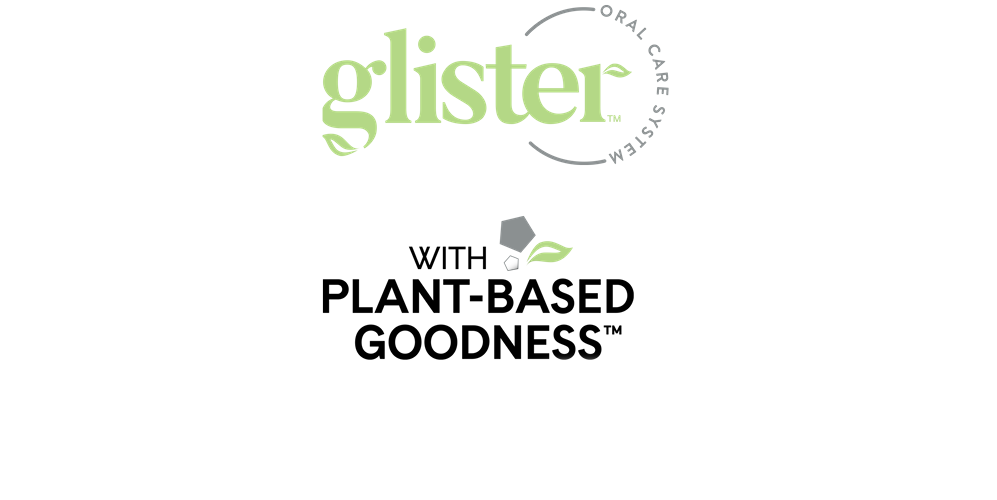
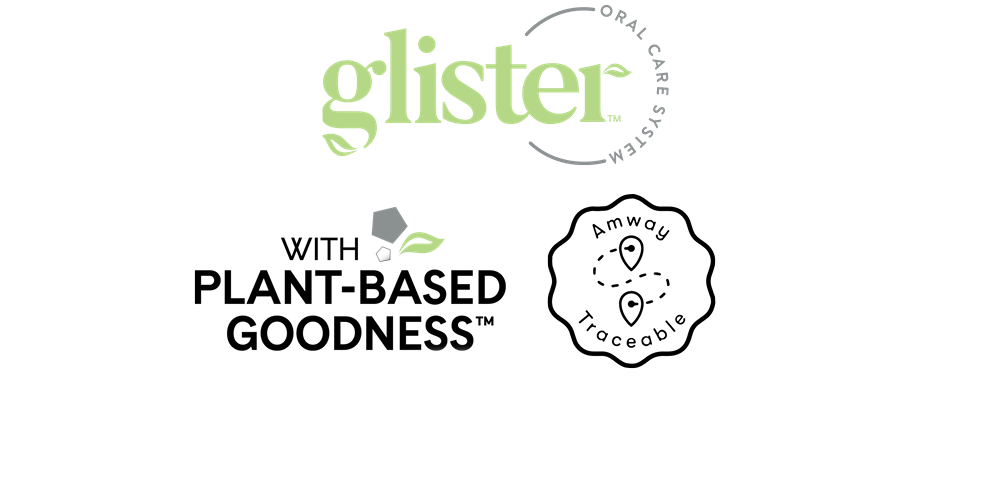
Nuevos cambios amway

Changed region(s): [[0.1866, 0.39, 0.7151, 0.75]]

diff --git a/src/app/components/country-tools/country-tools.component.ts b/src/app/components/country-tools/country-tools.component.ts
@@ -922,6 +922,53 @@ export class CountryToolsComponent implements OnInit {
                     link: 'https://www.amway.com.uy/Store/Catalogue.aspx?show=PrdDetail&NavM=N&line=F&BC=0001&C=FV&Brand=&utm_source=site&utm_medium=home&utm_campaign=uy_es&utm_content=cta_compra&utm_term=irresistibles-LOC'
                 }
             ]
+        },
+        {
+            subtitle: 'Selecciona la bandera de tu país para poder empezar tu compra.',
+            name: 'Trazabilidad Glister',
+            countries: [
+                {
+                    img: 'assets/imgs/Compras/IMG_1.png',
+                    link: 'https://amway.com.ar/drglister/#/traceability?utm_source=site&utm_medium=home&utm_campaign=ar_es_site_irresistibles&utm_content=cta_conoce&utm_term=trazabilidad_glister'
+                },
+                {
+                    img: 'assets/imgs/Compras/IMG_3.png',
+                    link: 'https://amway.cl/drglister/#/traceability?utm_source=site&utm_medium=home&utm_campaign=cl_es_site_irresistibles&utm_content=cta_conoce&utm_term=trazabilidad_glister'
+                }, 
+                {
+                    img: 'assets/imgs/Compras/IMG_12.png',
+                    link: 'https://amway.com.co/drglister/#/traceability?utm_source=site&utm_medium=home&utm_campaign=co_es_site_irresistibles&utm_content=cta_conoce&utm_term=trazabilidad_glister'
+                },
+                {
+                    img: 'assets/imgs/Compras/IMG_4.png',
+                    link: 'https://amway.co.cr/drglister/#/traceability?utm_source=site&utm_medium=home&utm_campaign=cr_es_site_irresistibles&utm_content=cta_conoce&utm_term=trazabilidad_glister'
+                },
+                {
+                    img: 'assets/imgs/Compras/IMG_5.png',
+                    link: 'https://amway.com.sv/drglister/#/traceability?utm_source=site&utm_medium=home&utm_campaign=sv_es_site_irresistibles&utm_content=cta_conoce&utm_term=trazabilidad_glister'
+                },
+                {
+                    img: 'assets/imgs/Compras/IMG_13.png',
+                    link: 'https://amway.com.gt/drglister/#/traceability?utm_source=site&utm_medium=home&utm_campaign=gt_es_site_irresistibles&utm_content=cta_conoce&utm_term=trazabilidad_glister'
+                },
+                {
+                    img: 'assets/imgs/Compras/IMG_6.png',
+                    link: 'https://amway.com.hn/drglister/#/traceability?utm_source=site&utm_medium=home&utm_campaign=hn_es_site_irresistibles&utm_content=cta_conoce&utm_term=trazabilidad_glister'
+                },
+                {
+                    img: 'assets/imgs/Compras/IMG_7.png',
+                    link: 'https://amway.com.mx/drglister/#/traceability?utm_source=site&utm_medium=home&utm_campaign=mx_es_site_irresistibles&utm_content=cta_conoce&utm_term=trazabilidad_glister'
+                },
+                {
+                    img: 'assets/imgs/Compras/IMG_8.png',
+                    link: 'https://amway.com.pa/drglister/#/traceability?utm_source=site&utm_medium=home&utm_campaign=pa_es_site_irresistibles&utm_content=cta_conoce&utm_term=trazabilidad_glister'
+                },
+                {
+                    img: 'assets/imgs/Compras/IMG_9.png',
+                    link: 'https://amway.com.uy/drglister/#/traceability?utm_source=site&utm_medium=home&utm_campaign=uy_es_site_irresistibles&utm_content=cta_conoce&utm_term=trazabilidad_glister'
+                },
+         
+            ]
         }  
     ]
     ;

diff --git a/src/app/components/why-irresistibles/why-irresistibles.component.html b/src/app/components/why-irresistibles/why-irresistibles.component.html
@@ -107,14 +107,14 @@
                     <div class="text-center img-card">
                         <img src="assets/imgs/Por_Que_Naturales/ICON_3.png" class="logos-icon" draggable="false" alt="">
                         <br>
-                        <button (click)="navigateTo(['tool', '7'])" class="general-btn mb1">Conoce más</button>
+               
                     </div>
                 </div>
                 <div class="col-12 col-md-6" style="padding: 2rem;" >
                     <div class="text-center img-card">
                         <img src="assets/imgs/Por_Que_Naturales/ICON_10.png" class="logos-icon" draggable="false" alt="">
                         <br>
-                        <button (click)="navigateTo(['tool', '7'])" class="general-btn mb1">Conoce más</button>
+                        <button (click)="navigateTo(['tool', '20'])" class="general-btn mb1">Conoce más</button>
                     </div>
                 </div>
             </div>

diff --git a/src/app/components/tools/tools.component.ts b/src/app/components/tools/tools.component.ts
@@ -77,7 +77,7 @@ export class ToolsComponent implements OnInit {
             id: 7,
             img: 'assets/imgs/Herramientas/ICON_8.png',
             name: 'Dr. Glister',
-            btn: 'Ir a Dr. Glister',
+            btn: 'Recomendador',
             link: 'https://www.amway.com.mx/downloads/misc/Calendario_Integrado_INA_LATAM.pdf',
             description: 'Dime tu rutina de cuidado bucal y te dire que productos debes usar. Dr. Glister llego para ayudarte a tener tu rutina ideal y conseguir una sonrisa radiante.'
         }

diff --git a/src/app/components/product-detail/product-detail.component.ts b/src/app/components/product-detail/product-detail.component.ts
@@ -182,7 +182,7 @@ export class ProductDetailComponent implements OnInit {
             footer: '',
             reverse: false, 
             link: 'https://www.amway.com.mx/Store/Catalogue.aspx?show=PrdDetail&NavM=N&line=K&BC=6833&C=KQ&Brand=',
-            color: '#6e6697',
+            color: '#265894',
             imgs: [
                 'assets/imgs/Pasta_de_dientes/ICON_9.png',
                 'assets/imgs/Pasta_de_dientes/ICON_11.png',
